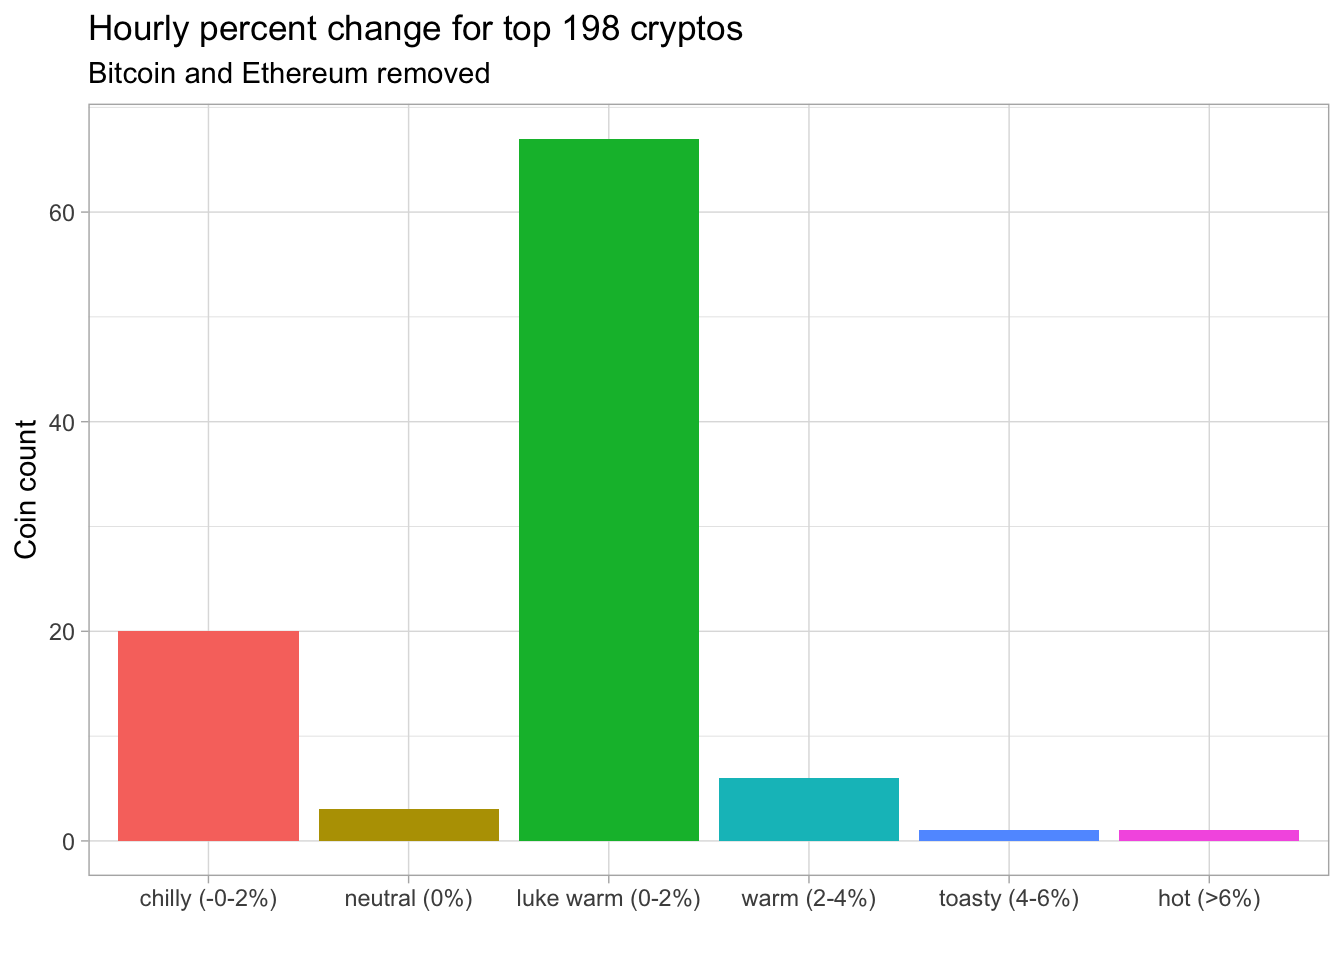
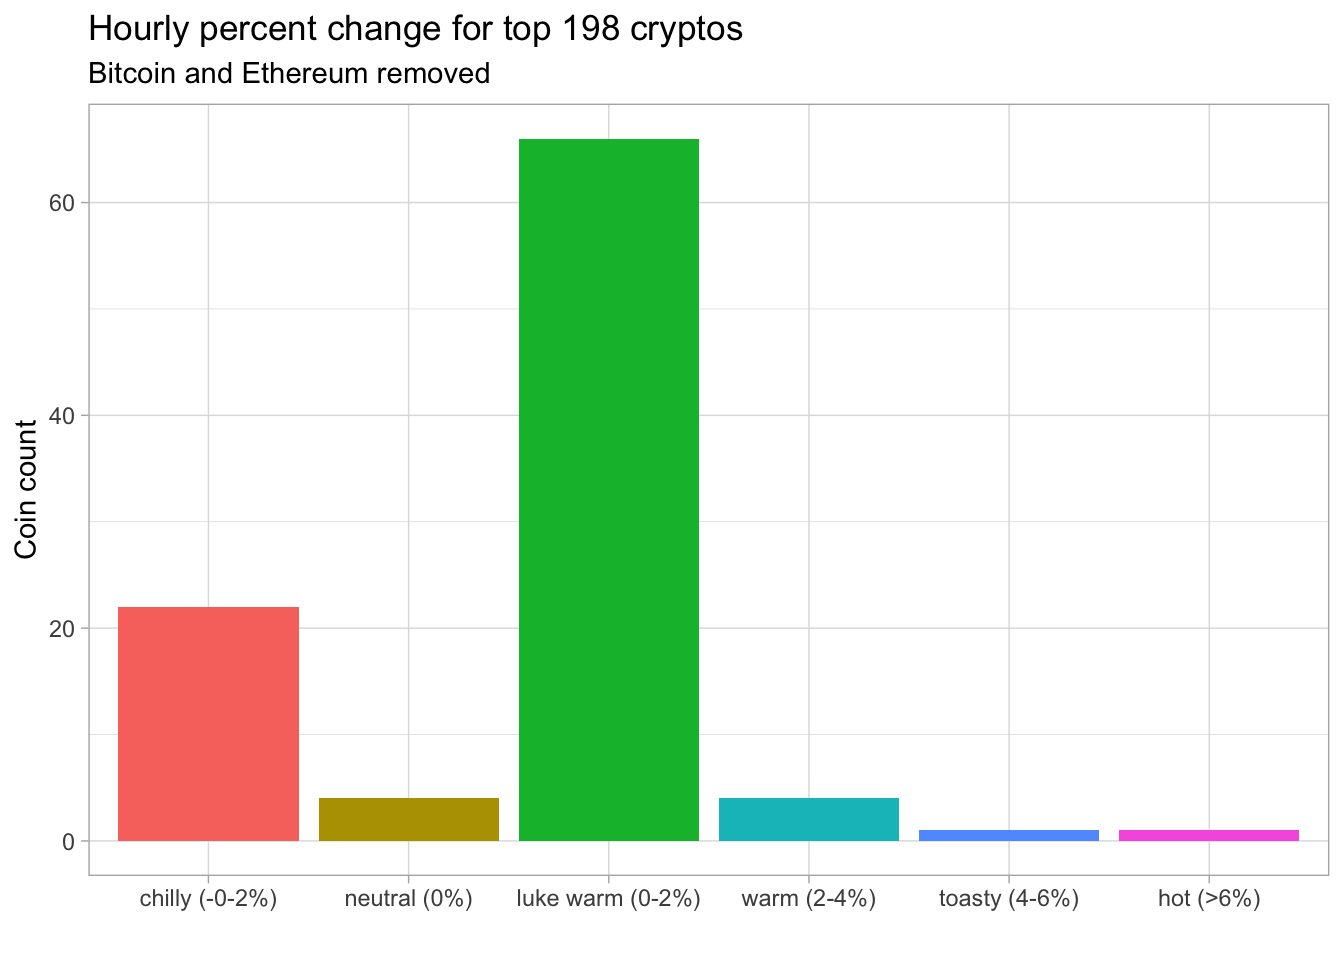
modified the last two plots

diff --git a/content/post/crypto-pct-change-15m/index.html b/content/post/crypto-pct-change-15m/index.html
@@ -131,7 +131,7 @@ hpackedbubble(granular_hourly$granular,
               width = &quot;100%&quot;,
               dataLabelsColor = &quot;white&quot;)</code></pre>
 <div id="htmlwidget-1" style="width:100%;height:480px;" class="hpackedbubble html-widget"></div>
-<script type="application/json" data-for="htmlwidget-1">{"x":{"cat":["luke warm (0-2%)","luke warm (0-2%)","chilly (-0-2%)","luke warm (0-2%)","luke warm (0-2%)","luke warm (0-2%)","luke warm (0-2%)","chilly (-0-2%)","luke warm (0-2%)","chilly (-0-2%)","luke warm (0-2%)","luke warm (0-2%)","luke warm (0-2%)","luke warm (0-2%)","warm (2-4%)","luke warm (0-2%)","luke warm (0-2%)","luke warm (0-2%)","luke warm (0-2%)","hot (>6%)","luke warm (0-2%)","luke warm (0-2%)","chilly (-0-2%)","luke warm (0-2%)","luke warm (0-2%)","luke warm (0-2%)","luke warm (0-2%)","luke warm (0-2%)","luke warm (0-2%)","luke warm (0-2%)","luke warm (0-2%)","luke warm (0-2%)","luke warm (0-2%)","warm (2-4%)","luke warm (0-2%)","luke warm (0-2%)","luke warm (0-2%)","warm (2-4%)","chilly (-0-2%)","luke warm (0-2%)","luke warm (0-2%)","luke warm (0-2%)","luke warm (0-2%)","chilly (-0-2%)","luke warm (0-2%)","luke warm (0-2%)","luke warm (0-2%)","luke warm (0-2%)","chilly (-0-2%)","luke warm (0-2%)","luke warm (0-2%)","luke warm (0-2%)","luke warm (0-2%)","luke warm (0-2%)","toasty (4-6%)","luke warm (0-2%)","luke warm (0-2%)","warm (2-4%)","luke warm (0-2%)","chilly (-0-2%)","luke warm (0-2%)","luke warm (0-2%)","warm (2-4%)","luke warm (0-2%)","luke warm (0-2%)","luke warm (0-2%)","luke warm (0-2%)","luke warm (0-2%)","luke warm (0-2%)","luke warm (0-2%)","luke warm (0-2%)","luke warm (0-2%)","luke warm (0-2%)","luke warm (0-2%)","luke warm (0-2%)","warm (2-4%)","luke warm (0-2%)","chilly (-0-2%)","luke warm (0-2%)","chilly (-0-2%)","luke warm (0-2%)","luke warm (0-2%)","luke warm (0-2%)","luke warm (0-2%)","luke warm (0-2%)","luke warm (0-2%)","luke warm (0-2%)","luke warm (0-2%)","warm (2-4%)","luke warm (0-2%)","luke warm (0-2%)","warm (2-4%)","warm (2-4%)","luke warm (0-2%)","luke warm (0-2%)","chilly (-0-2%)","warm (2-4%)","chilly (-0-2%)","warm (2-4%)","luke warm (0-2%)"],"name":["Bitcoin","Ethereum","Tether","Binance Coin","Cardano","Dogecoin","XRP","USD Coin","Polkadot","Binance USD","Bitcoin Cash","Uniswap","Litecoin","Solana","Chainlink","Polygon","Theta Network","Wrapped Bitcoin","Stellar","Internet Computer","Ethereum Classic","VeChain","Dai","TRON","Filecoin","Shiba Inu","Monero","EOS","cUSDC","Amp","cDAI","OKB","Crypto.com Coin","Aave","Algorand","Klaytn","Bitcoin SV","PancakeSwap","Cosmos","Terra","cETH","Theta Fuel","NEO","Celsius Network","Tezos","IOTA","FTX Token","LEO Token","TerraUSD","Maker","Avalanche","SafeMoon","Huobi Token","BitTorrent","THORChain","Decred","The Graph","Kusama","Hedera Hashgraph","TrueUSD","Waves","Huobi BTC","Compound","Sushi","Dash","Chiliz","Telcoin","Zcash","Elrond","yearn.finance","Quant","Lido Staked Ether","Holo","NEM","Helium","Synthetix Network Token","Enjin Coin","Paxos Standard","Zilliqa","XDC Network","Mdex","Basic Attention Token","Near","Liquity USD","Stacks","Bitcoin Gold","NEXO","HUSD","Harmony","Horizen","Bancor Network Token","Decentraland","Nano","Qtum","DigiByte","cUSDT","KuCoin Token","Pirate Chain","Curve DAO Token","Fantom"],"value":[1,1.2,-0.7,0.7,1,0.5,2,-0.1,1.3,-0.1,0.6,1.2,0.1,0.4,2.1,2,1.9,0.9,1.4,10.9,0.6,1.7,-0.4,1.5,1.1,2,1.2,1.5,0.5,1.1,0.5,1.6,0.5,2.7,0.7,1.9,0.4,2.4,-0.2,1.1,1.2,1.3,1.7,-0.2,0.8,1.4,1.8,0.3,-0.1,0.9,2,1,2,1.5,5.9,0.3,1.1,3,1.4,-0.3,0.9,1.1,4,1.7,0.3,1,1.4,0.6,0.7,1,1.6,1.2,0.7,1.5,1.8,2.1,1.2,-0.1,0.9,-1.7,1,1.5,0.9,0.4,1.5,1.7,0.3,0.2,2.6,1.7,1,2.3,2.5,1.4,0.7,-0.1,3.2,-1,2.3,1.6],"theme":"darkunica","title":"Hourly percentage change","titleAlign":"center","titleSize":"20px","titleColor":"#F0FFF0","subtitle":"","subtitleAlign":"center","subtitleSize":"","subtitleColor":"#666666","pointFormat":"<br>{point.name} <\/br> Volume: {point.value}","split":0,"packedbubbleMinSize":"50%","packedbubbleMaxSize":"250%","packedbubbleZMin":0,"packedbubbleZmax":10000,"gravitational":0.02,"seriesInteraction":1,"dragBetweenSeries":0,"parentNodeLimit":1,"dataLabels":1,"dataLabelsformat":"{point.name}","dataLabelsFilter":100,"dataLabelsColor":"white"},"evals":[],"jsHooks":[]}</script>
+<script type="application/json" data-for="htmlwidget-1">{"x":{"cat":["luke warm (0-2%)","luke warm (0-2%)","chilly (-0-2%)","luke warm (0-2%)","chilly (-0-2%)","warm (2-4%)","luke warm (0-2%)","chilly (-0-2%)","luke warm (0-2%)","chilly (-0-2%)","luke warm (0-2%)","luke warm (0-2%)","chilly (-0-2%)","luke warm (0-2%)","luke warm (0-2%)","luke warm (0-2%)","luke warm (0-2%)","luke warm (0-2%)","luke warm (0-2%)","hot (>6%)","chilly (-0-2%)","luke warm (0-2%)","chilly (-0-2%)","luke warm (0-2%)","luke warm (0-2%)","luke warm (0-2%)","luke warm (0-2%)","luke warm (0-2%)","luke warm (0-2%)","luke warm (0-2%)","luke warm (0-2%)","luke warm (0-2%)","chilly (-0-2%)","luke warm (0-2%)","luke warm (0-2%)","luke warm (0-2%)","chilly (-0-2%)","luke warm (0-2%)","chilly (-0-2%)","luke warm (0-2%)","luke warm (0-2%)","neutral (0%)","luke warm (0-2%)","luke warm (0-2%)","chilly (-0-2%)","luke warm (0-2%)","luke warm (0-2%)","chilly (-0-2%)","chilly (-0-2%)","luke warm (0-2%)","luke warm (0-2%)","luke warm (0-2%)","luke warm (0-2%)","luke warm (0-2%)","toasty (4-6%)","chilly (-0-2%)","luke warm (0-2%)","luke warm (0-2%)","luke warm (0-2%)","chilly (-0-2%)","luke warm (0-2%)","luke warm (0-2%)","warm (2-4%)","chilly (-0-2%)","neutral (0%)","luke warm (0-2%)","luke warm (0-2%)","luke warm (0-2%)","neutral (0%)","luke warm (0-2%)","warm (2-4%)","luke warm (0-2%)","luke warm (0-2%)","luke warm (0-2%)","luke warm (0-2%)","luke warm (0-2%)","luke warm (0-2%)","chilly (-0-2%)","luke warm (0-2%)","chilly (-0-2%)","chilly (-0-2%)","luke warm (0-2%)","luke warm (0-2%)","neutral (0%)","luke warm (0-2%)","luke warm (0-2%)","chilly (-0-2%)","chilly (-0-2%)","luke warm (0-2%)","luke warm (0-2%)","luke warm (0-2%)","luke warm (0-2%)","luke warm (0-2%)","luke warm (0-2%)","chilly (-0-2%)","luke warm (0-2%)","warm (2-4%)","luke warm (0-2%)","luke warm (0-2%)","luke warm (0-2%)"],"name":["Bitcoin","Ethereum","Tether","Binance Coin","Cardano","Dogecoin","XRP","USD Coin","Polkadot","Binance USD","Bitcoin Cash","Uniswap","Litecoin","Solana","Chainlink","Polygon","Theta Network","Wrapped Bitcoin","Stellar","Internet Computer","Ethereum Classic","VeChain","Dai","TRON","Filecoin","Shiba Inu","Monero","EOS","cUSDC","Amp","cDAI","Crypto.com Coin","OKB","Aave","Algorand","Klaytn","Bitcoin SV","PancakeSwap","Cosmos","Theta Fuel","cETH","Terra","NEO","Celsius Network","Tezos","IOTA","FTX Token","LEO Token","TerraUSD","Maker","Avalanche","SafeMoon","Huobi Token","BitTorrent","THORChain","Decred","The Graph","Kusama","Hedera Hashgraph","TrueUSD","Waves","Huobi BTC","Compound","Sushi","Dash","Chiliz","Telcoin","Zcash","Elrond","yearn.finance","Quant","Lido Staked Ether","Holo","Helium","NEM","Synthetix Network Token","Enjin Coin","Paxos Standard","Zilliqa","XDC Network","Mdex","Basic Attention Token","Near","Liquity USD","Bitcoin Gold","Stacks","NEXO","HUSD","Harmony","Horizen","Bancor Network Token","Decentraland","Nano","Qtum","DigiByte","cUSDT","KuCoin Token","Curve DAO Token","Fantom","Pirate Chain"],"value":[0.4,0.4,-0.7,0.1,-0.2,2.5,1.3,-0.3,0.8,-0.7,0.3,0.8,-0.2,0.9,1.7,1.6,1.6,0.4,0.4,6.6,-0.1,0.4,-0.4,1,0.5,2,0.7,1.4,0.5,0.9,0.5,0.3,-0.1,1.3,0.6,1,-0.1,1.9,-1.1,0.4,1.1,0,1.7,0.1,-0.1,1.1,1,-0.2,-0.9,0.8,1.3,0.7,1.2,1.1,4.9,-0.3,1.4,1.4,1.1,-0.4,0.7,0.6,3.8,-0.1,0,0.5,1,1.4,-0,0.5,3.1,0.3,0.3,1.6,0.4,1.8,0.7,-0.3,0.8,-1.7,-0.3,0.8,0.8,0,0.6,1.7,-1,-0.3,0.8,0.9,1,1.5,1.2,0.8,-0.2,0.4,2.6,1.5,1.2,1.1],"theme":"darkunica","title":"Hourly percentage change","titleAlign":"center","titleSize":"20px","titleColor":"#F0FFF0","subtitle":"","subtitleAlign":"center","subtitleSize":"","subtitleColor":"#666666","pointFormat":"<br>{point.name} <\/br> Volume: {point.value}","split":0,"packedbubbleMinSize":"50%","packedbubbleMaxSize":"250%","packedbubbleZMin":0,"packedbubbleZmax":10000,"gravitational":0.02,"seriesInteraction":1,"dragBetweenSeries":0,"parentNodeLimit":1,"dataLabels":1,"dataLabelsformat":"{point.name}","dataLabelsFilter":100,"dataLabelsColor":"white"},"evals":[],"jsHooks":[]}</script>
 <pre class="r"><code>pct_change_plot &lt;- granular_hourly %&gt;% 
   count(granular) %&gt;% 
   ggplot(aes(granular, n, fill = granular)) +
@@ -205,7 +205,23 @@ btc_chart %&gt;%
     name = &quot;date&quot;,
     labels = label_date(&quot;%I:%M %p&quot;, tz = &quot;PST8PDT&quot;))</code></pre>
 <p><img src="{{< blogdown/postref >}}index_files/figure-html/unnamed-chunk-7-1.png" width="672" /></p>
-<pre class="r"><code>granular_15min &lt;- read_tsv(&quot;granular_15min.tsv&quot;) %&gt;% 
+<pre class="r"><code>q_minute &lt;- btc_chart %&gt;% 
+  filter(date &gt;= &#39;2021-06-26 14:54:57&#39;) 
+
+btc_minute_plot &lt;- q_minute %&gt;% 
+  ggplot(aes(date, price, color = volume, group = 1)) +
+  geom_line() +
+  labs(title = &quot;Bitcoin price chart&quot;, x = &quot;&quot;, y = &quot;&quot;) +
+  theme(panel.grid.major = element_blank(), 
+        panel.grid.minor = element_blank()) +
+  scale_x_datetime(
+    name = &quot;&quot;,
+    labels = label_date(&quot;%I:%M %p&quot;, tz = &quot;PST8PDT&quot;)) +
+  scale_y_continuous(labels = scales::dollar) 
+
+#ggsave(&quot;btc-hrly-pct.png&quot;, btc_minute_plot, bg = &quot;transparent&quot;)
+
+granular_15min &lt;- read_tsv(&quot;granular_15min.tsv&quot;) %&gt;% 
   mutate(time_stamp = str_remove(time_stamp, &quot;Z&quot;),
     time_stamp = ymd_hms(time_stamp)) %&gt;% 
   filter(coin != &quot;coin&quot;) 
@@ -215,25 +231,14 @@ bar_plot &lt;- granular_15min  %&gt;%
   count(change) %&gt;% 
   ggplot(aes(time_stamp, n, fill = granular)) +
   geom_col() +
+  theme(panel.grid.major = element_blank(), 
+        panel.grid.minor = element_blank()) +
   scale_x_datetime(
     name = &quot;time&quot;,
-    labels = label_date(&quot;%I:%M %p&quot;, tz = &quot;PST8PDT&quot;))
+    labels = label_date(&quot;%I:%M %p&quot;, tz = &quot;PST8PDT&quot;)) +
+  labs(y = NULL)
 
 #ggsave(&quot;alt100-15min-pct.png&quot;, bar_plot, bg = &quot;transparent&quot;)
-
-q_minute &lt;- btc_chart %&gt;% 
-  filter(date &gt;= &#39;2021-06-26 14:54:57&#39;) 
-
-btc_minute_plot &lt;- q_minute %&gt;% 
-  ggplot(aes(date, price, color = volume, group = 1)) +
-  geom_line() +
-  labs(title = &quot;Bitcoin price chart&quot;) +
-  scale_x_datetime(
-    name = &quot;date&quot;,
-    labels = label_date(&quot;%I:%M %p&quot;, tz = &quot;PST8PDT&quot;)) +
-  scale_y_continuous(labels = scales::dollar) 
-
-#ggsave(&quot;btc-hrly-pct.png&quot;, btc_minute_plot, bg = &quot;transparent&quot;)
 
 btc_minute_plot / bar_plot</code></pre>
 <p><img src="{{< blogdown/postref >}}index_files/figure-html/unnamed-chunk-8-1.png" width="672" /></p>
